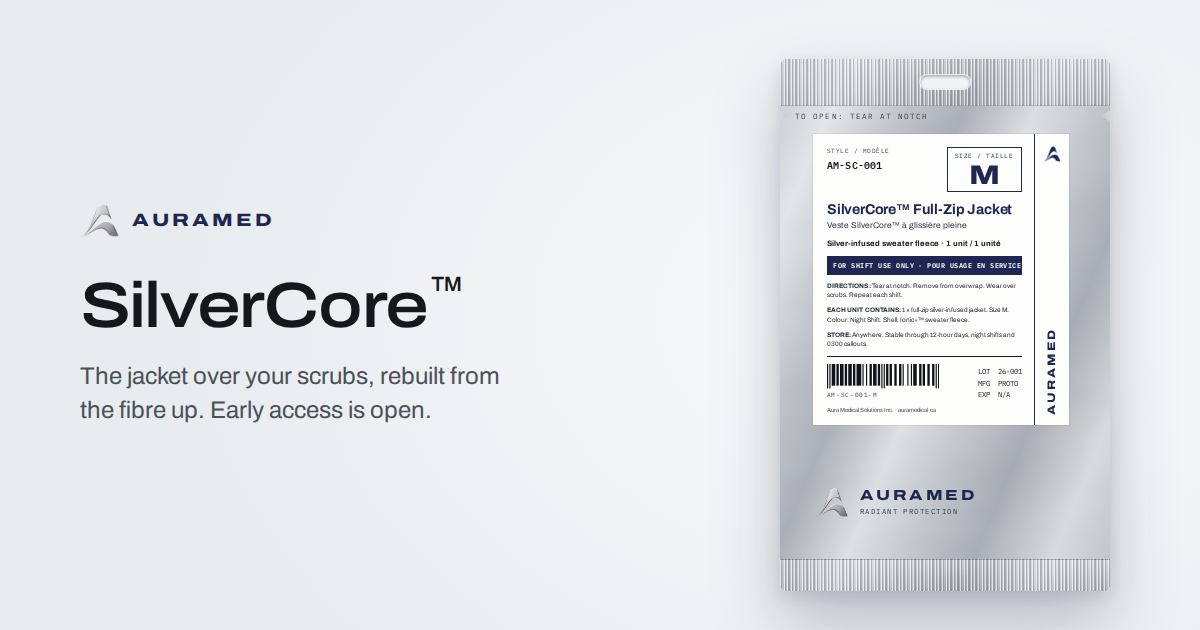
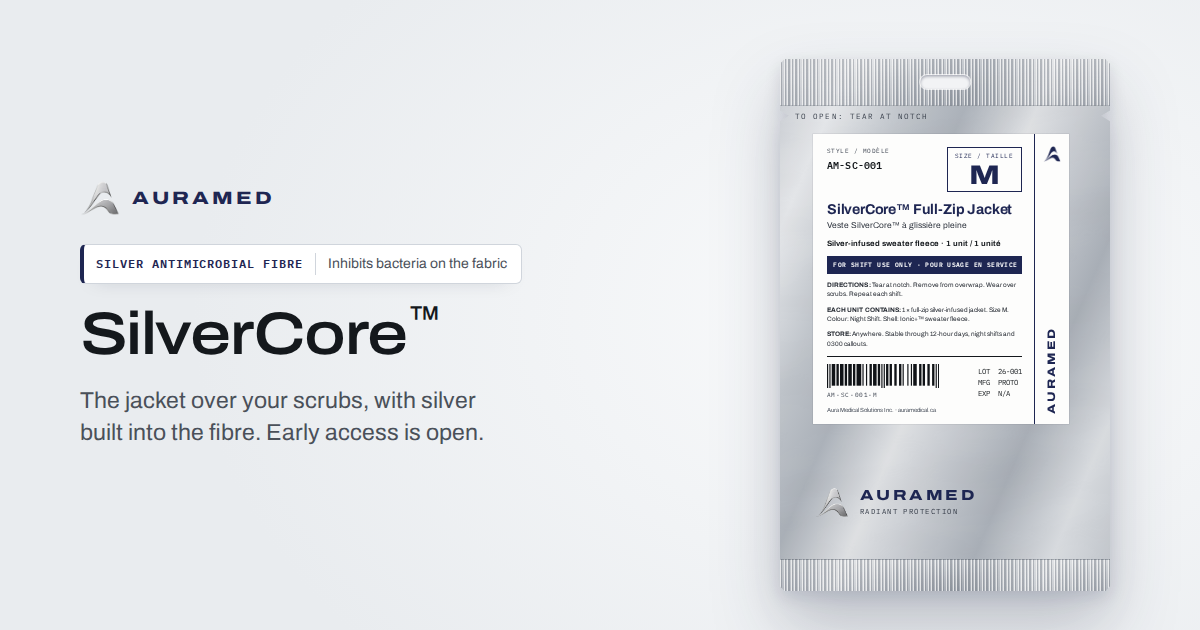
Add files via upload

diff --git a/auramedical-site/index.html b/auramedical-site/index.html
@@ -3,15 +3,15 @@
 <head>
   <meta charset="utf-8">
   <meta name="viewport" content="width=device-width, initial-scale=1">
-  <title>SilverCore™ by AuraMed | The clinical mid-layer with silver in the fibre</title>
-  <meta name="description" content="SilverCore™ is a full-zip mid-layer for healthcare professionals, with Ionic+™ silver extruded into the fibre. Join the early-access list.">
+  <title>SilverCore™ by AuraMed | Silver antimicrobial fibre that inhibits bacteria on the fabric</title>
+  <meta name="description" content="SilverCore™ is a clinical full-zip for healthcare professionals, made with Ionic+™ Permanent silver antimicrobial technology extruded into the fibre to inhibit the growth of bacteria on the fabric. Join early access.">
   <link rel="canonical" href="https://auramedical.ca/">
   <meta name="theme-color" content="#eff1f2">
 
   <meta property="og:type" content="website">
   <meta property="og:site_name" content="AuraMed">
   <meta property="og:title" content="SilverCore™ by AuraMed">
-  <meta property="og:description" content="The jacket over your scrubs, rebuilt from the fibre up. Join the early-access list.">
+  <meta property="og:description" content="The jacket over your scrubs, with silver antimicrobial technology built into the fibre to inhibit bacteria on the fabric. Get early access.">
   <meta property="og:url" content="https://auramedical.ca/">
   <meta property="og:image" content="https://auramedical.ca/assets/img/og-image.png">
   <meta property="og:image:width" content="1200">
@@ -75,7 +75,7 @@
         <li><a href="#story">Our story</a></li>
         <li><a href="#faq">FAQ</a></li>
       </ul>
-      <a class="btn btn-primary nav-cta" href="#early-access" data-umami-event="Early access click" data-umami-event-location="nav">Request early access</a>
+      <a class="btn btn-primary nav-cta" href="#early-access" data-umami-event="Early access click" data-umami-event-location="nav">Get early access</a>
       <button class="nav-toggle" type="button" aria-controls="nav-links" aria-expanded="false">
         <span></span><span class="visually-hidden">Menu</span>
       </button>
@@ -88,13 +88,14 @@
     <section class="hero" aria-labelledby="hero-title">
       <div class="wrap">
         <div>
-          <h1 class="display" id="hero-title">The jacket over your scrubs, rebuilt from the fibre&nbsp;up.</h1>
-          <p class="lede">SilverCore<span class="tm">™</span> is a full-zip mid-layer for healthcare professionals. Ionic+<span class="tm">™</span> silver is extruded into the yarn itself to inhibit odour-causing bacteria on the fabric, and every detail is cut around clinical work.</p>
+          <p class="tech-tag"><b>Silver antimicrobial fibre</b><span>Inhibits bacteria on the fabric</span></p>
+          <h1 class="display" id="hero-title">The jacket over your scrubs, with silver built into the&nbsp;fibre.</h1>
+          <p class="lede">SilverCore<span class="tm">™</span> is a clinical full-zip made with Ionic+<span class="tm">™</span> Permanent silver antimicrobial technology: high-purity silver extruded into the yarn to inhibit the growth of bacteria on the fabric. Every other detail is cut around clinical work.</p>
           <div class="hero-actions">
-            <a class="btn btn-primary" href="#early-access" data-umami-event="Early access click" data-umami-event-location="hero">Request early access</a>
+            <a class="btn btn-primary" href="#early-access" data-umami-event="Early access click" data-umami-event-location="hero">Get early access</a>
             <a class="btn btn-quiet" href="#technology" data-umami-event="How the fibre works click">How the fibre works</a>
           </div>
-          <p class="hero-note">Now in prototyping. Early-access members hear first and get first call to wear-test.</p>
+          <p class="hero-note">Now in prototyping. Early-access members hear first and get first call to wear-test.<br><span>Clinical apparel, not PPE or a medical device.</span></p>
         </div>
 
         <div class="pouch-stage">
@@ -152,7 +153,7 @@
       <div class="wrap">
         <div class="problem-intro">
           <h2 class="display" id="problem-title">Scrubs get laundered. The layer over them goes home.</h2>
-          <p>A fleece or hoodie goes on over scrubs at the start of a shift and often stays on until you're back through your own front door. It goes everywhere you go, and it usually isn't washed as often as the scrubs underneath.</p>
+          <p>Healthcare has purpose-built uniforms, PPE and protocols. The fleece or hoodie over the scrubs is usually just a fleece. It goes on at the start of a shift, often stays on until you're back through your own front door, and usually isn't washed as often as the scrubs underneath.</p>
         </div>
 
         <div class="shift">
@@ -178,6 +179,14 @@
             </ol>
           </div>
         </div>
+
+        <div class="bridge">
+          <p class="bridge-line">The scrubs get the attention. <span>The layer over them doesn't.</span></p>
+          <div class="bridge-copy">
+            <p>SilverCore<span class="tm">™</span> is built for that layer: cut around clinical work, with a stretch-woven, liquid-repellent shell where splashes and wear land, and silver built into the fibre to keep the fabric fresher between washes.</p>
+            <a class="bridge-link" href="#technology" data-umami-event="Bridge click">How the fibre works</a>
+          </div>
+        </div>
       </div>
     </section>
 
@@ -187,7 +196,7 @@
         <div class="tech-top">
           <div>
             <h2 class="display" id="tech-title">Embedded, not coated.</h2>
-            <p class="lede">Many antimicrobial garments rely on a finish applied to the surface of the fabric. SilverCore uses Ionic+<span class="tm">™</span> Permanent by Noble Biomaterials: high-purity silver is bound into the polyester as the yarn is extruded, so the silver is part of the fibre itself.</p>
+            <p class="lede">Not sprayed on. Not a surface finish. SilverCore uses Ionic+<span class="tm">™</span> Permanent silver antimicrobial technology by Noble Biomaterials: high-purity silver is bound into the polyester as the yarn is extruded, so it's part of the fibre itself, where it inhibits the growth of bacteria on the fabric.</p>
           </div>
 
           <div class="fibres">
@@ -394,7 +403,7 @@
               <input id="wash-range" type="range" min="0" max="100" step="1" value="0" aria-describedby="fibre-note">
               <output for="wash-range" id="wash-out" aria-live="polite">0 washes</output>
             </div>
-            <p class="fibre-note" id="fibre-note">Drag to wash. Illustration, not to scale: surface finishes are rated for a set number of washes, while extruded silver stays in the fibre for the life of the fabric.</p>
+            <p class="fibre-note" id="fibre-note">Drag to wash. Illustration, not to scale: surface finishes are rated for a set number of washes, while extruded silver is engineered to stay in the fibre for the life of the fabric.</p>
           </div>
         </div>
 
@@ -408,18 +417,39 @@
             <p>Positively charged silver ions are released at the fibre surface continuously, without shedding elemental silver.</p>
           </li>
           <li>
-            <h3>Fresher between washes</h3>
-            <p>The ions inhibit the growth of odour-causing bacteria on the fabric, wash after wash.</p>
+            <h3>Bacteria, inhibited</h3>
+            <p>The ions interfere with how bacteria grow and multiply, inhibiting bacterial growth on the fabric itself. The fabric stays fresher between washes.</p>
           </li>
         </ol>
 
         <dl class="specs">
           <dt>Fibre technology</dt><dd>IONIC+™ Permanent Antimicrobial, extruded, by Noble Biomaterials</dd>
           <dt>Silver</dt><dd>High-purity mineral silver. No nanotechnology.</dd>
-          <dt>Durability</dt><dd>Part of the fibre for the life of the fabric</dd>
+          <dt>Durability</dt><dd>Engineered to stay in the fibre for the life of the fabric</dd>
           <dt>Certification</dt><dd>OEKO-TEX® Standard 100</dd>
           <dt>Registration</dt><dd>EPA-registered antimicrobial technology (United States)</dd>
         </dl>
+
+        <div class="scope">
+          <div class="scope-col scope-does">
+            <h3>What SilverCore does</h3>
+            <ul>
+              <li>Uses Ionic+™ Permanent silver antimicrobial technology, built into the fibre</li>
+              <li>Inhibits the growth of bacteria on the fabric</li>
+              <li>Helps the fabric stay fresher between washes</li>
+              <li>Carries its silver inside the fibre, not in a surface coating</li>
+            </ul>
+          </div>
+          <div class="scope-col scope-doesnt">
+            <h3>What it doesn't do</h3>
+            <ul>
+              <li>It isn't PPE or a medical device</li>
+              <li>It doesn't replace hand hygiene or PPE</li>
+              <li>It doesn't replace your facility's infection prevention and control practices</li>
+              <li>It isn't designed or sold as protection against infection</li>
+            </ul>
+          </div>
+        </div>
       </div>
     </section>
 
@@ -587,12 +617,13 @@
     <section class="section access" id="early-access" aria-labelledby="access-title">
       <div class="wrap">
         <div>
-          <h2 class="display" id="access-title">Wear it first.</h2>
-          <p class="lede">Join the early-access list to hear first when SilverCore is ready and to be considered for prototype wear-testing. We only email when there's news.</p>
+          <h2 class="display" id="access-title">Be first to wear SilverCore.</h2>
+          <p class="lede">Join the early-access list. It's free, and we only email when there's news.</p>
           <ul class="perks">
-            <li>First access when SilverCore launches</li>
-            <li>A chance to wear-test prototypes on shift</li>
-            <li>A say in the final details</li>
+            <li>First access to the first production release</li>
+            <li>Priority consideration for clinician wear-testing</li>
+            <li>A say in final fit, features and clinical details</li>
+            <li>First look at launch pricing and release details</li>
           </ul>
         </div>
 
@@ -671,7 +702,7 @@
               </div>
 
               <div class="form-actions">
-                <button class="btn btn-primary" type="submit">Request early access</button>
+                <button class="btn btn-primary" type="submit">Get early access</button>
                 <p class="form-error" id="form-error" role="alert"></p>
               </div>
             </div>
@@ -696,11 +727,11 @@
           </details>
           <details>
             <summary>What does the silver actually do?</summary>
-            <p>Ionic+ silver inhibits the growth of odour-causing bacteria on the fabric, so the jacket stays fresher between washes. The treatment protects the fabric itself.</p>
+            <p>Ionic+ is silver antimicrobial technology built into the fibre. Positively charged silver ions at the fibre surface inhibit the growth of bacteria on the fabric, so the jacket stays fresher between washes. The treatment protects the fabric itself; it isn't designed or sold as protection against infection.</p>
           </details>
           <details>
             <summary>Will the silver wash out?</summary>
-            <p>No. The silver is extruded into the fibre rather than applied as a finish, so it stays for the life of the fabric.</p>
+            <p>It's engineered not to. The silver is extruded into the fibre rather than applied as a finish, so it's designed to stay in the fibre for the life of the fabric.</p>
           </details>
           <details>
             <summary>What's in the fibre?</summary>

diff --git a/auramedical-site/assets/css/site.css b/auramedical-site/assets/css/site.css
@@ -994,6 +994,75 @@ figure.fibre { display: flex; flex-direction: column; }
   .spec-list li { cursor: default; }
 }
 
+
+/* ================= Claims pass: technology up front, limits stated plainly ================= */
+
+/* Hero technology tag (the qualifier always travels with the word "antimicrobial") */
+.tech-tag {
+  display: inline-flex; flex-wrap: wrap; align-items: center; gap: 6px 12px;
+  margin: 0 0 22px; padding: 8px 14px 8px 12px;
+  background: var(--white); border: 1px solid var(--line); border-left: 4px solid var(--navy); border-radius: 6px;
+  box-shadow: 0 8px 20px -16px rgba(20,26,54,.35);
+}
+.tech-tag b {
+  font-family: var(--mono); font-weight: 600; font-size: 12px; letter-spacing: .08em; text-transform: uppercase; color: var(--navy);
+}
+.tech-tag span { font-size: 14px; color: var(--ink-2); padding-left: 12px; border-left: 1px solid var(--line); }
+.hero-note span { display: inline-block; margin-top: 6px; font-size: 13px; color: #6a717b; }
+
+/* Problem to product bridge: the overlooked layer and its design */
+.bridge {
+  display: grid; grid-template-columns: minmax(0, 1.1fr) minmax(0, .9fr); gap: clamp(28px, 5vw, 80px); align-items: end;
+  border-top: 2px solid var(--navy); padding-top: 32px;
+}
+.bridge-line {
+  margin: 0; font-stretch: 118%; font-weight: 560; letter-spacing: -0.02em; line-height: 1.08;
+  font-size: clamp(28px, 3.3vw, 44px); text-wrap: balance;
+}
+.bridge-line span { color: var(--navy); display: block; }
+.bridge-copy p { margin: 0; font-size: 18px; color: var(--ink-2); max-width: 30em; }
+.bridge-link {
+  display: inline-block; margin-top: 16px; font-weight: 600; color: var(--navy);
+  text-decoration: underline; text-decoration-thickness: 1.5px; text-underline-offset: 5px;
+}
+.bridge-link:hover { color: var(--navy-2); }
+
+/* What it does / what it doesn't */
+.scope {
+  margin-top: clamp(56px, 7vw, 88px);
+  display: grid; grid-template-columns: repeat(2, minmax(0, 1fr)); gap: clamp(16px, 3vw, 32px);
+}
+.scope-col { border: 1px solid rgba(255,255,255,.16); border-radius: 14px; padding: 24px 26px 14px; }
+.scope-does { background: rgba(255,255,255,.04); }
+.scope-col h3 { font-stretch: 108%; font-size: 19px; font-weight: 600; letter-spacing: -0.005em; margin-bottom: 8px; }
+.scope-col ul { list-style: none; margin: 0; padding: 0; }
+.scope-col li {
+  position: relative; padding: 12px 0 12px 30px; font-size: 15.5px; line-height: 1.45;
+  border-top: 1px solid rgba(255,255,255,.08);
+}
+.scope-col li:first-child { border-top: 0; }
+.scope-does li { color: var(--on-dark); }
+.scope-doesnt li { color: var(--on-dark-2); }
+.scope-col li::before { content: ""; position: absolute; left: 2px; top: 17px; }
+.scope-does li::before {
+  width: 12px; height: 7px; border-left: 2px solid #d9dde3; border-bottom: 2px solid #d9dde3; transform: rotate(-45deg);
+}
+.scope-doesnt li::before {
+  width: 12px; height: 12px; top: 16px;
+  background:
+    linear-gradient(45deg, transparent 44%, #a9b0c4 44% 56%, transparent 56%),
+    linear-gradient(-45deg, transparent 44%, #a9b0c4 44% 56%, transparent 56%);
+}
+
+@media (max-width: 920px) {
+  .bridge { grid-template-columns: minmax(0, 1fr); align-items: start; }
+  .scope { grid-template-columns: minmax(0, 1fr); }
+}
+@media (max-width: 620px) {
+  .tech-tag span { padding-left: 0; border-left: 0; flex-basis: 100%; }
+  .scope-col { padding: 20px 18px 10px; }
+}
+
 @media (prefers-reduced-motion: reduce) {
   html { scroll-behavior: auto; }
   *, *::before, *::after { transition-duration: .01ms !important; animation: none !important; }
